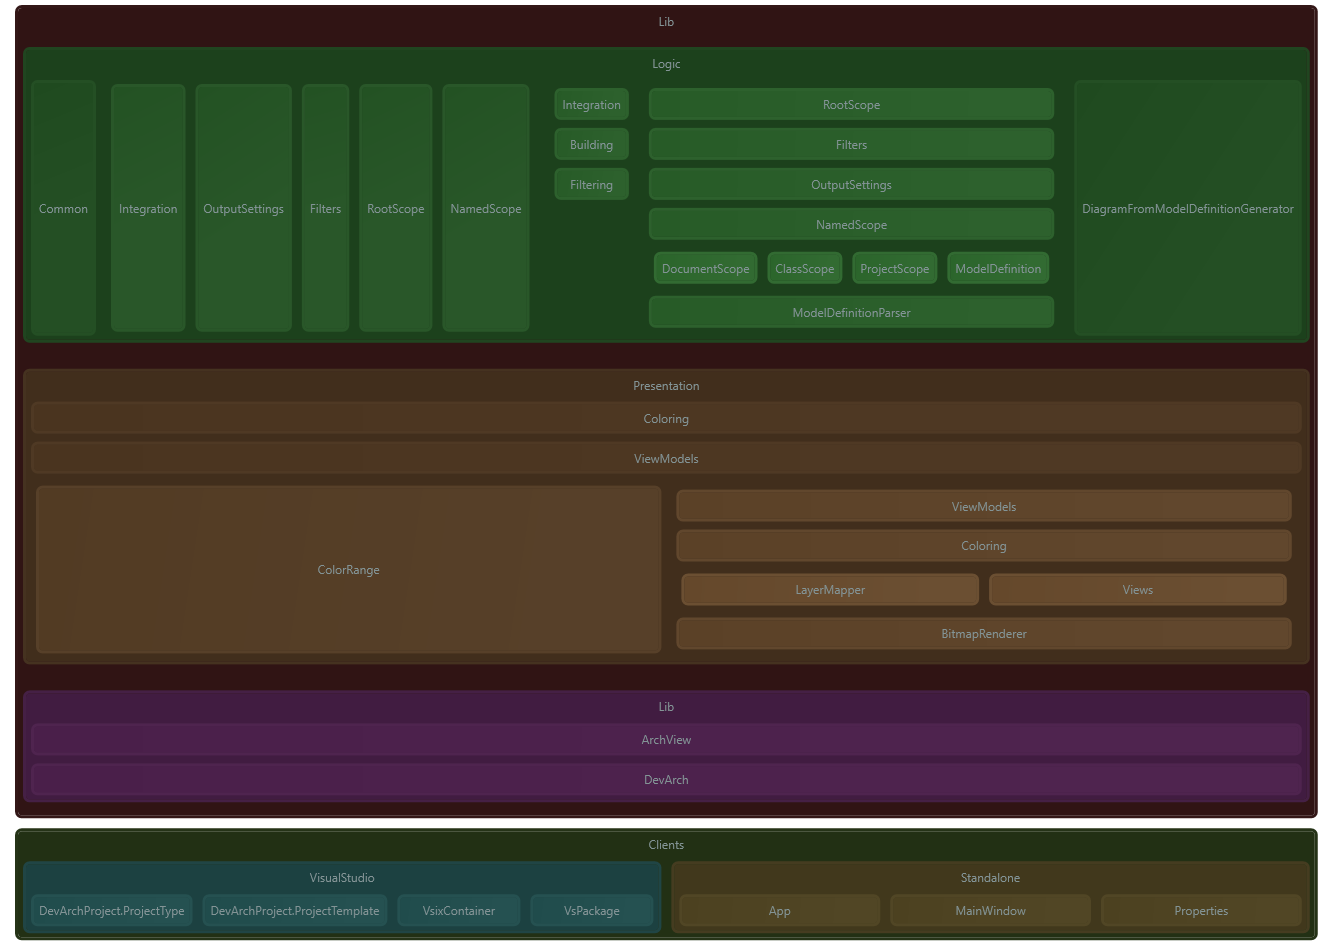
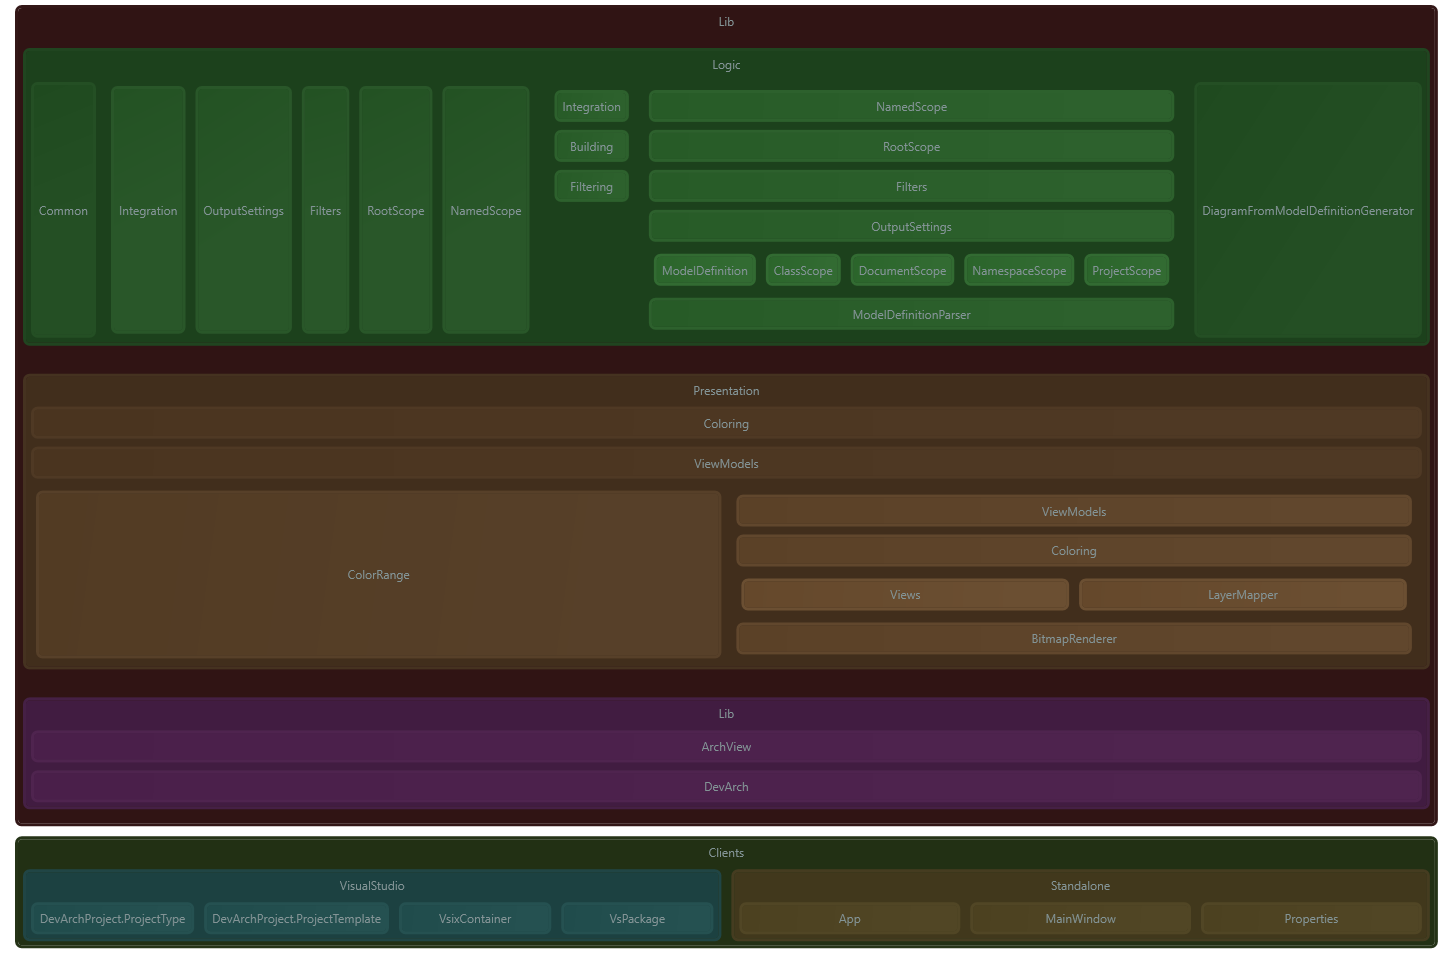
Pushed failing tests over

diff --git a/Lib/Presentation/BitmapRenderer.cs b/Lib/Presentation/BitmapRenderer.cs
@@ -1,8 +1,11 @@
-using System.IO;
+using System;
+using System.Diagnostics;
+using System.IO;
 using System.Threading;
 using System.Windows;
 using System.Windows.Media;
 using System.Windows.Media.Imaging;
+using JetBrains.Annotations;
 using Logic;
 using Logic.Building.SemanticTree;
 using Thread = System.Threading.Thread;
@@ -12,8 +15,9 @@ namespace Presentation
     public static class BitmapRenderer
     {
 
-        public static void RenderTreeToBitmap(Tree tree, string path, OutputSettings outputSettings)
+        public static void RenderTreeToBitmap(Tree tree, [NotNull] string path, OutputSettings outputSettings)
         {
+            Debug.Assert(path != null);
             var thread = new Thread(() =>
             {
                 _RenderTreeToBitmap(tree, path, outputSettings.Size);
@@ -23,7 +27,7 @@ namespace Presentation
             thread.Join();
         }
 
-        private static void _RenderTreeToBitmap(Tree tree, string path, int scale = 1, double maxWidth = double.PositiveInfinity, double maxheight = double.PositiveInfinity)
+        private static void _RenderTreeToBitmap(Tree tree,[NotNull] string path, int scale = 1, double maxWidth = double.PositiveInfinity, double maxheight = double.PositiveInfinity)
         {
             var control = new Views.Diagram();
             var viewModel = LayerMapper.TreeModelToArchViewModel(tree);
@@ -31,7 +35,7 @@ namespace Presentation
             RenderControlToBitmap(control, path,scale, maxWidth, maxheight);
         }
 
-        private static void RenderControlToBitmap(UIElement control, string path, int scale = 1,
+        private static void RenderControlToBitmap(UIElement control, [NotNull] string path, int scale = 1,
             double maxWidth = double.PositiveInfinity, double maxheight = double.PositiveInfinity)
         {
             var availableSize = new Size(maxWidth, maxheight);
@@ -46,9 +50,19 @@ namespace Presentation
             var encoder = new PngBitmapEncoder();
 
             encoder.Frames.Add(BitmapFrame.Create(bmp));
-
+            var dir = Path.GetDirectoryName(path);
+            if (dir == null)
+                throw new InvalidPathException(path);
+            Directory.CreateDirectory(dir);
             using (Stream stm = File.Create(path))
                 encoder.Save(stm);
+        }
+    }
+
+    internal class InvalidPathException : Exception
+    {
+        public InvalidPathException(string path) : base(path)
+        {
         }
     }
 }

diff --git a/Tests/Integration/Integration.cs b/Tests/Integration/Integration.cs
@@ -5,6 +5,7 @@ using EnvDTE;
 using Logic;
 using Logic.Building;
 using Logic.Building.SemanticTree;
+using Logic.Filtering;
 using Logic.Integration;
 using Microsoft.VisualStudio.TestTools.UnitTesting;
 
@@ -27,7 +28,29 @@ namespace Tests.Integration
             var dependency = clients.AllSubDependencies().Any(x => x.Name == "DevArch");
             Assert.IsNotNull(dependency);
         }
-        
+
+
+        [TestMethod]
+        public void SemanticTreeDoesNotContainDoubles()
+        {
+            var solution = new AdvancedSolution(GetDte());
+            var modelGen = new DiagramFromModelDefinitionGenerator(solution);
+            var tree = SemanticTreeBuilder.AnalyseNamespace(solution, "Logic\\Building\\SemanticTree");
+            tree.RemoveChild(tree.Childs.WithName("ReferenceLocationExtensions"));
+            tree.RemoveChild(tree.Childs.WithName("ClassNode"));
+            tree.RemoveChild(tree.Childs.WithName("ProjectNode"));
+            tree.RemoveChild(tree.Childs.WithName("HorizontalSiblingHolderNode"));
+            tree.RemoveChild(tree.Childs.WithName("VerticalSiblingHolderNode"));
+            //tree.RemoveChild(tree.Childs.WithName("SiblingHolderNode"));
+            //tree.RemoveChild(tree.Childs.WithName("CircularDependencyHolderNode"));
+            //tree.RemoveChild(tree.Childs.WithName("NodeExtensions"));
+            Assert.AreEqual(1, tree.DescendantNodes().Count(x => x.Name == "Node"));
+            Assert.AreEqual(1, tree.DescendantNodes().Count(x => x.Name == "Tree"));
+            ModelFilterer.ApplyFilter(ref tree, new Filters());
+            Assert.AreEqual(1, tree.DescendantNodes().Count(x => x.Name == "Tree"));
+            Assert.AreEqual(1,tree.DescendantNodes().Count(x => x.Name == "Node"));
+        }
+
 
         private static DTE GetDte()
         {

diff --git a/Lib/Logic/Building/SemanticTreeBuilder.cs b/Lib/Logic/Building/SemanticTreeBuilder.cs
@@ -42,6 +42,25 @@ namespace Logic.Building
             ClassTreeBuilder.AddClassesToTree(tree);
             return tree;
         }
+        
+        public static Tree AnalyseNamespace(AdvancedSolution solution, string name)
+        {
+            var projectName = GetRootFolder(name);
+            var tree = AnalyseProject(solution, projectName);
+            var names = name.Split('\\').ToList();
+            names.RemoveAt(0);
+
+            while (names.Any())
+            {
+                var nextName = names.First();
+                var nextTree = tree.DescendantNodes().WithName(nextName);
+                if (nextTree == null)
+                    return tree;
+                tree = nextTree;
+                names.RemoveAt(0);
+            }
+            return tree;
+        }
 
         public static Tree AnalyseClass(AdvancedSolution solution, string name)
         {

diff --git a/Lib/Logic/DiagramFromModelDefinitionGenerator.cs b/Lib/Logic/DiagramFromModelDefinitionGenerator.cs
@@ -36,6 +36,10 @@ namespace Logic
             {
                 tree = SemanticTreeBuilder.AnalyseClass(_solution, ((ClassScope)modelDef.Scope).Name);
             }
+            if (modelDef.Scope is NamespaceScope)
+            {
+                tree = SemanticTreeBuilder.AnalyseNamespace(_solution, ((NamespaceScope) modelDef.Scope).Name);
+            }
             if (modelDef.Scope is ProjectScope)
             {
                 tree = SemanticTreeBuilder.AnalyseProject(_solution, ((ProjectScope) modelDef.Scope).Name);

diff --git a/Tests/Integration/Samples/VerticalAnonymousLayer.cs b/Tests/Integration/Samples/VerticalAnonymousLayer.cs
@@ -1,0 +1,24 @@
+using System;
+using System.Collections.Generic;
+using System.Linq;
+using System.Text;
+using System.Threading.Tasks;
+
+namespace Tests.Integration.Samples
+{
+    namespace VerticalAnonymousLayer
+    {
+        class SemanticTree
+        { 
+            class Node
+            {
+                private Tree t;
+            }
+            class Tree
+            {
+                private Node n;
+            }
+        }
+        
+    }
+}

diff --git a/Lib/Logic/Filtering/SiblingReordrer.cs b/Lib/Logic/Filtering/SiblingReordrer.cs
@@ -188,7 +188,6 @@ namespace Logic.Filtering
 
         public static void CalculatePatternScore(ref  List<DependencyGroup> dependencyGroups)
         {
-            var scores = new List<IGrouping<int,DependencyGroup>>();
             foreach (var group in dependencyGroups)
             {
                 var collidingPatterns = dependencyGroups.Count(group2 => group2 != group

diff --git a/Lib/Logic/ModelDefinitionParser.cs b/Lib/Logic/ModelDefinitionParser.cs
@@ -104,6 +104,9 @@ namespace Logic
                 case "Project":
                     scope = new ProjectScope();
                     break;
+                case "Namespace":
+                    scope = new NamespaceScope();
+                    break;
                 default:
                     throw new NotImplementedException();
             }

diff --git a/Lib/Logic/ModelDefinition.cs b/Lib/Logic/ModelDefinition.cs
@@ -54,7 +54,11 @@
 
     public class ClassScope : NamedScope
     {
-        
+
+    }
+    public class NamespaceScope : NamedScope
+    {
+
     }
     public class DocumentScope : NamedScope
     {
